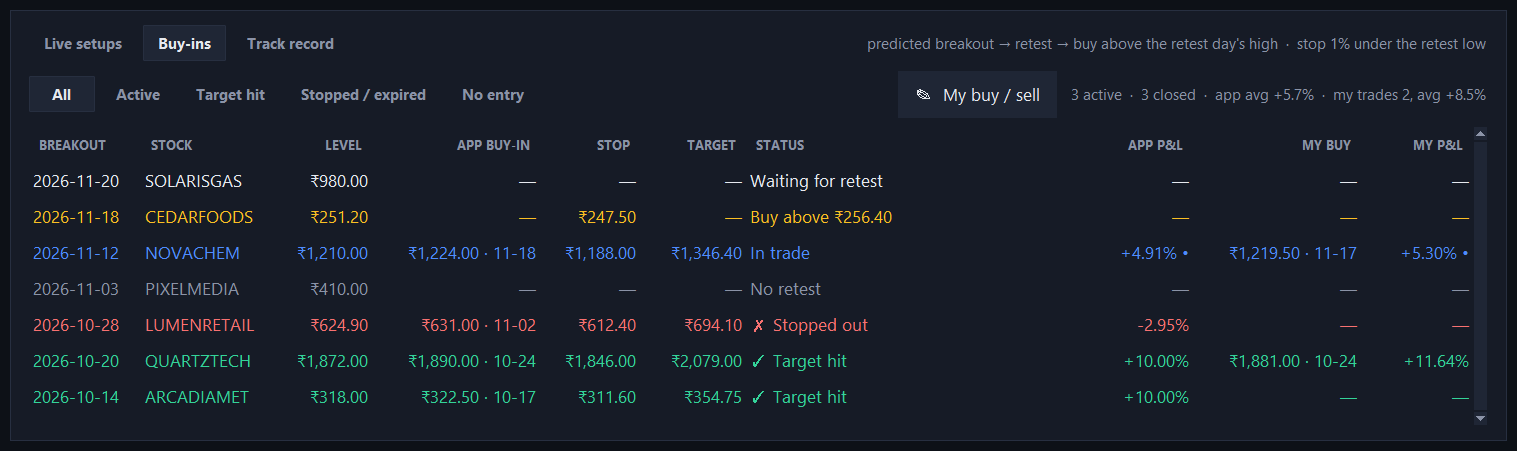
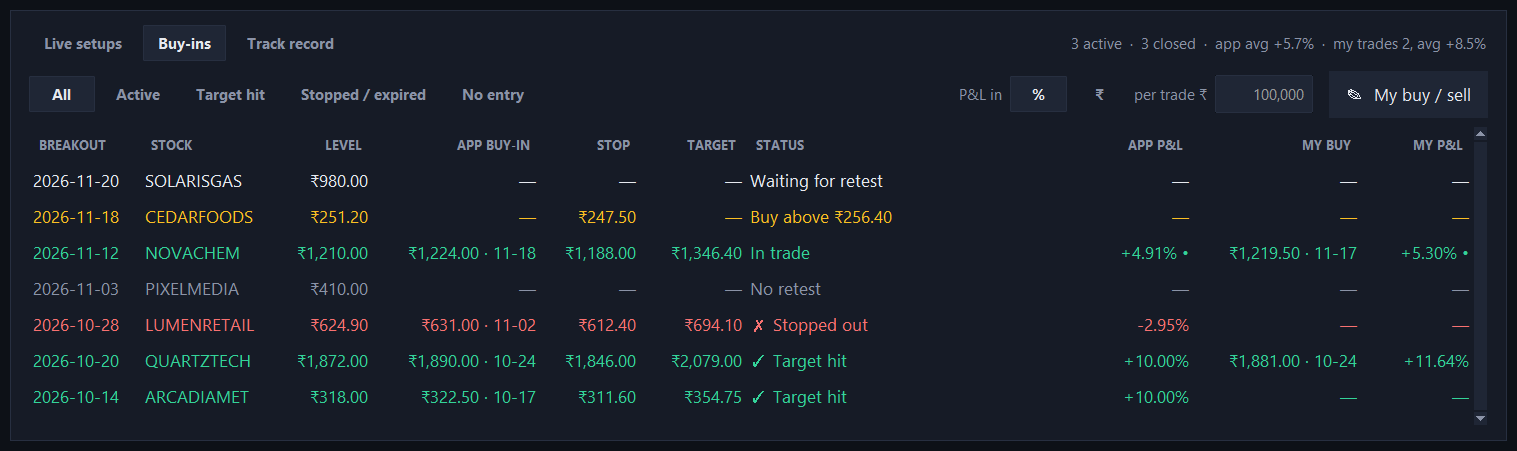
Sort any column, show buy-in P&L in ₹ or %, colour gains and losses
- Click a column heading in Live setups, Buy-ins or Track record to sort
  by it, and click again to reverse. The sort survives refreshes; blanks
  go last.
- Buy-ins: a P&L in % / ₹ toggle and a per-trade amount (₹1,00,000 by
  default, in whole shares). In ₹ mode the summary shows booked and
  open profit.
- Rows with a P&L are green when it's up and red when it's down. Track
  record rows follow the sign of MOVE.
- The hit-rate card also shows how many predictions are still pending.

diff --git a/breakout_predictor_app.py b/breakout_predictor_app.py
@@ -33,6 +33,7 @@ import io
 import json
 import os
 import queue
+import re
 import smtplib
 import ssl
 import threading
@@ -81,6 +82,8 @@ DEFAULT_CONFIG = {
     "max_emails_per_day": 20,
     "wma200_filter": False,
     "target_pct": 10.0,
+    "pnl_mode": "pct",
+    "trade_amount": 100000,
 }
 WEEKLY_CALENDAR_DAYS = 1950   # ~5.3 years: 200 completed weeks before every backtest day
 WMA_WEEKS = 200
@@ -723,6 +726,14 @@ def my_pnl(t, price_now):
     if t.get("my_sell_price"):
         return pct(t["my_buy_price"], t["my_sell_price"]), True
     return (pct(t["my_buy_price"], price_now), False) if price_now else (None, False)
+
+
+def pnl_amount(pct_value, entry, amount):
+    """Rupee P&L of putting `amount` into whole shares at `entry` and moving pct_value %. None if unknown."""
+    if pct_value is None or not entry or not amount:
+        return None
+    qty = int(amount // entry)
+    return qty * entry * pct_value / 100 if qty else None
 
 
 def build_trades(preds, history, existing, target_pct):
@@ -1915,7 +1926,7 @@ class App(tk.Tk):
         tbl = self.tabs["live"]
         self.tree = ttk.Treeview(tbl, columns=[col[0] for col in self.COLUMNS], show="headings", selectmode="browse")
         for key, title, width, anchor in self.COLUMNS:
-            self.tree.heading(key, text=title, anchor=anchor)
+            self.tree.heading(key, text=title, anchor=anchor, command=lambda k=key: self._sort_click(self.tree, k))
             self.tree.column(key, width=int(width * self.k), anchor=anchor, stretch=key in ("why", "industry"))
         self.tree.tag_configure("alt", background=P["row_alt"])
         self.tree.tag_configure("new", background=P["new_row"])
@@ -1973,11 +1984,14 @@ class App(tk.Tk):
         box.pack(fill="both", expand=True)
         self.track = ttk.Treeview(box, columns=[col[0] for col in self.TRACK_COLUMNS], show="headings", selectmode="browse")
         for key, title, width, anchor in self.TRACK_COLUMNS:
-            self.track.heading(key, text=title, anchor=anchor)
+            self.track.heading(key, text=title, anchor=anchor,
+                               command=lambda k=key: self._sort_click(self.track, k))
             self.track.column(key, width=int(width * self.k), anchor=anchor, stretch=key == "symbol")
         self.track.tag_configure("hit", foreground=P["green"])
         self.track.tag_configure("miss", foreground=P["red"])
         self.track.tag_configure("open", foreground=P["muted"])
+        self.track.tag_configure("pos", foreground=P["green"])
+        self.track.tag_configure("neg", foreground=P["red"])
         sb = ttk.Scrollbar(box, orient="vertical", command=self.track.yview)
         self.track.configure(yscrollcommand=sb.set)
         self.track.pack(side="left", fill="both", expand=True)
@@ -2004,22 +2018,40 @@ class App(tk.Tk):
             self.buyin_btns[name] = ttk.Button(bar, text=text, style="Seg.TButton", width=-4,
                                                command=lambda n=name: self._set_buyin_filter(n))
             self.buyin_btns[name].pack(side="left", padx=(0, 6))
-        self.buyin_summary = ttk.Label(bar, style="Hint.TLabel")
-        self.buyin_summary.pack(side="right")
+        # The summary sits in the tab header row (where the other tabs show their hint) to leave room here.
+        self.buyin_summary = ttk.Label(self.tab_hint.master, style="Hint.TLabel")
         ttk.Button(bar, text="✎  My buy / sell", style="Ghost.TButton",
-                   command=self.open_my_trade_dialog).pack(side="right", padx=(0, 12))
+                   command=self.open_my_trade_dialog).pack(side="right")
+        self.pnl_mode = self.cfg.get("pnl_mode", "pct")
+        self.amount_var = tk.StringVar(value=f"{float(self.cfg.get('trade_amount') or 100000):,.0f}")
+        self.amount_entry = ttk.Entry(bar, textvariable=self.amount_var, width=10, justify="right")
+        self.amount_entry.pack(side="right", padx=(0, 16))
+        self.amount_entry.bind("<Return>", lambda e: self._set_trade_amount())
+        self.amount_entry.bind("<FocusOut>", lambda e: self._set_trade_amount())
+        self.amount_label = ttk.Label(bar, text="per trade ₹", style="Hint.TLabel")
+        self.amount_label.pack(side="right", padx=(0, 6))
+        self.pnl_btns = {}
+        for name, text in [("amt", "₹"), ("pct", "%")]:
+            self.pnl_btns[name] = ttk.Button(bar, text=text, style="Seg.TButton", width=3,
+                                             command=lambda n=name: self._set_pnl_mode(n))
+            self.pnl_btns[name].pack(side="right", padx=(0, 4))
+        ttk.Label(bar, text="P&L in", style="Hint.TLabel").pack(side="right", padx=(0, 6))
         box = ttk.Frame(parent, style="Card.TFrame")
         box.pack(fill="both", expand=True)
         self.buyins = ttk.Treeview(box, columns=[col[0] for col in self.BUYIN_COLUMNS], show="headings",
                                    selectmode="browse")
         for key, title, width, anchor in self.BUYIN_COLUMNS:
-            self.buyins.heading(key, text=title, anchor=anchor)
+            self.buyins.heading(key, text=title, anchor=anchor,
+                                command=lambda k=key: self._sort_click(self.buyins, k))
             self.buyins.column(key, width=int(width * self.k), anchor=anchor, stretch=key == "status")
         for tag, color in [("win", P["green"]), ("loss", P["red"]), ("expired", P["amber"]), ("entered", P["accent"]),
                            ("retesting", P["amber"]), ("waiting_retest", P["text"])]:
             self.buyins.tag_configure(tag, foreground=color)
         for tag in ("failed", "no_retest", "no_entry"):
             self.buyins.tag_configure(tag, foreground=P["muted"])
+        # Rows with a P&L are coloured by its sign instead (Tk can't colour single cells).
+        self.buyins.tag_configure("pos", foreground=P["green"])
+        self.buyins.tag_configure("neg", foreground=P["red"])
         sb = ttk.Scrollbar(box, orient="vertical", command=self.buyins.yview)
         self.buyins.configure(yscrollcommand=sb.set)
         self.buyins.pack(side="left", fill="both", expand=True)
@@ -2030,6 +2062,83 @@ class App(tk.Tk):
                                          "then moves to Retesting\nand In trade once it bounces above the "
                                          "retest day's high.")
         self._set_buyin_filter("all")
+
+    def _set_pnl_mode(self, mode):
+        self.pnl_mode = self.cfg["pnl_mode"] = mode
+        save_config(self.cfg)
+        self._refresh_buyins()
+
+    def _set_trade_amount(self):
+        try:
+            amount = float(self.amount_var.get().replace(",", "").replace("₹", "").strip())
+            if amount <= 0:
+                raise ValueError
+        except ValueError:
+            amount = float(self.cfg.get("trade_amount") or 100000)
+        self.amount_var.set(f"{amount:,.0f}")
+        if amount != self.cfg.get("trade_amount"):
+            self.cfg["trade_amount"] = amount
+            save_config(self.cfg)
+            self._refresh_buyins()
+
+    # ------------------------------------------------------------------ column sorting
+    TEXT_COLUMNS = {"symbol", "industry", "why", "status"}  # first click sorts these A→Z, the rest high→low
+
+    def _columns_of(self, tree):
+        for name, cols in (("tree", self.COLUMNS), ("buyins", self.BUYIN_COLUMNS), ("track", self.TRACK_COLUMNS)):
+            if getattr(self, name, None) is tree:
+                return cols
+        return []
+
+    def _sort_click(self, tree, col):
+        if not hasattr(self, "sort_state"):
+            self.sort_state = {}
+        cur = self.sort_state.get(str(tree))
+        desc = (not cur[1]) if cur and cur[0] == col else col not in self.TEXT_COLUMNS
+        self.sort_state[str(tree)] = (col, desc)
+        self._apply_sort(tree)
+
+    @staticmethod
+    def _sort_value(text):
+        """Sort key from a cell's display text: dates, then numbers (₹, %, commas, • ignored), then text."""
+        s = str(text).strip()
+        if s in ("", "—", "-"):
+            return None
+        if s == "new":  # live 'PREDICTED' column: predicted this scan
+            return (0, float("inf"))
+        for fmt in ("%Y-%m-%d %H:%M", "%Y-%m-%d"):
+            try:
+                return (0, datetime.strptime(s, fmt).timestamp())
+            except ValueError:
+                pass
+        try:
+            d = datetime.strptime(f"{now_ist().year} {s}", "%Y %b %d")
+            return (0, d.timestamp())
+        except ValueError:
+            pass
+        m = re.match(r"^([+\-−]?)₹?([\d,]+(?:\.\d+)?)", s)
+        if m:
+            value = float(m.group(2).replace(",", ""))
+            return (0, -value if m.group(1) in ("-", "−") else value)
+        return (1, s.lower())
+
+    def _apply_sort(self, tree):
+        state = getattr(self, "sort_state", {}).get(str(tree))
+        for key, title, _, _ in self._columns_of(tree):
+            arrow = ("  ▼" if state[1] else "  ▲") if state and state[0] == key else ""
+            tree.heading(key, text=title + arrow)
+        if not state:
+            return
+        col, desc = state
+        keyed = [(self._sort_value(tree.set(iid, col)), iid) for iid in tree.get_children("")]
+        present = sorted([k for k in keyed if k[0] is not None], key=lambda k: k[0], reverse=desc)
+        missing = [k for k in keyed if k[0] is None]  # blanks always go last
+        for i, (_, iid) in enumerate(present + missing):
+            tree.move(iid, "", i)
+        if tree is self.tree:  # re-stripe the live table, keeping 'new' highlights
+            for i, iid in enumerate(tree.get_children("")):
+                if "new" not in tree.item(iid, "tags"):
+                    tree.item(iid, tags=("alt",) if i % 2 else ())
 
     def _set_buyin_filter(self, name):
         self.buyin_filter = name
@@ -2043,21 +2152,51 @@ class App(tk.Tk):
     def _refresh_buyins(self):
         trades = load_trades()
         ts = trade_summary(trades)
+        amount = float(self.cfg.get("trade_amount") or 100000)
+        in_rupees = self.pnl_mode == "amt"
+        for n, b in self.pnl_btns.items():
+            b.configure(style="SegOn.TButton" if n == self.pnl_mode else "Seg.TButton")
+        self.amount_entry.configure(state="normal" if in_rupees else "disabled")
         active = sum(1 for t in trades if t.get("status") in self.BUYIN_FILTERS["active"])
-        mine = [p for p in (my_pnl(t, self._price_now(t))[0] for t in trades) if p is not None]
-        self.buyin_summary.configure(
-            text=f"{active} active  ·  {ts['closed']} closed"
-                 + (f"  ·  app avg {ts['avg']:+.1f}%" if ts["closed"] else "")
-                 + (f"  ·  my trades {len(mine)}, avg {sum(mine) / len(mine):+.1f}%" if mine else ""))
+        rupees = lambda v: ("+" if v >= 0 else "−") + f"₹{abs(v):,.0f}"  # noqa: E731
+        if in_rupees:
+            booked = opened = mine_total = 0.0
+            n_mine = 0
+            for t in trades:
+                val, realised = app_pnl(t, self._price_now(t))
+                amt = pnl_amount(val, t.get("entry_price"), amount)
+                if amt is not None:
+                    if realised:
+                        booked += amt
+                    else:
+                        opened += amt
+                mine_amt = pnl_amount(my_pnl(t, self._price_now(t))[0], t.get("my_buy_price"), amount)
+                if mine_amt is not None:
+                    mine_total += mine_amt
+                    n_mine += 1
+            summary = (f"{active} active  ·  {ts['closed']} closed  ·  app "
+                       + (f"{rupees(booked)} booked" if ts["closed"] else "nothing booked yet")
+                       + f", {rupees(opened)} open" + (f"  ·  mine {rupees(mine_total)}" if n_mine else ""))
+        else:
+            mine = [p for p in (my_pnl(t, self._price_now(t))[0] for t in trades) if p is not None]
+            summary = (f"{active} active  ·  {ts['closed']} closed"
+                       + (f"  ·  app avg {ts['avg']:+.1f}%" if ts["closed"] else "")
+                       + (f"  ·  my trades {len(mine)}, avg {sum(mine) / len(mine):+.1f}%" if mine else ""))
+        self.buyin_summary.configure(text=summary)
         self.buyins.delete(*self.buyins.get_children())
         allowed = self.BUYIN_FILTERS[self.buyin_filter]
         shown = [t for t in trades if allowed is None or t.get("status") in allowed]
         shown.sort(key=lambda t: t.get("breakout_date", ""), reverse=True)
         money = lambda v: f"₹{v:,.2f}" if v else "—"  # noqa: E731
 
-        def pnl_text(p):
+        def pnl_text(p, entry):
             val, realised = p
-            return "—" if val is None else f"{val:+.2f}%" + ("" if realised else " •")
+            if in_rupees:
+                val = pnl_amount(val, entry, amount)
+                text = None if val is None else rupees(val)
+            else:
+                text = None if val is None else f"{val:+.2f}%"
+            return "—" if text is None else text + ("" if realised else " •")
 
         for t in shown:
             st = t.get("status")
@@ -2072,10 +2211,14 @@ class App(tk.Tk):
             if t.get("my_buy_price"):
                 my_buy = f"{money(t['my_buy_price'])} · {str(t.get('my_buy_time', ''))[5:10]}"
             price_now = self._price_now(t)
-            self.buyins.insert("", "end", iid=t["id"], tags=(st,), values=(
+            app_val = app_pnl(t, price_now)[0]
+            sign = app_val if app_val is not None else my_pnl(t, price_now)[0]
+            tag = st if sign is None or sign == 0 else ("pos" if sign > 0 else "neg")
+            self.buyins.insert("", "end", iid=t["id"], tags=(tag,), values=(
                 t.get("breakout_date", "—"), t["symbol"], money(t.get("R")), entry, money(t.get("stop")),
-                money(t.get("target")), label, pnl_text(app_pnl(t, price_now)), my_buy,
-                pnl_text(my_pnl(t, price_now))))
+                money(t.get("target")), label, pnl_text(app_pnl(t, price_now), t.get("entry_price")), my_buy,
+                pnl_text(my_pnl(t, price_now), t.get("my_buy_price"))))
+        self._apply_sort(self.buyins)
         if shown:
             self.buyin_empty.place_forget()
         else:
@@ -2179,6 +2322,12 @@ class App(tk.Tk):
             frame.pack_forget()
             self.tab_btns[n].configure(style="SegOn.TButton" if n == name else "Seg.TButton")
         self.tabs[name].pack(fill="both", expand=True)
+        if name == "buyins":
+            self.tab_hint.pack_forget()
+            self.buyin_summary.pack(side="right")
+        else:
+            self.buyin_summary.pack_forget()
+            self.tab_hint.pack(side="right")
         self.tab_hint.configure(text={
             "live": "highlighted rows are new  ·  sorted by score",
             "buyins": "predicted breakout → retest → buy above the retest day's high  ·  stop 1% under "
@@ -2206,14 +2355,17 @@ class App(tk.Tk):
         shown.sort(key=lambda p: (p["date"], p.get("time", "")), reverse=True)
         label = {"hit": "✓ Hit", "miss": "✗ Missed", "open": "• Open"}
         for p in shown:
-            move = "—"
+            move, tag = "—", p["status"]
             if p.get("resolved_close") and p.get("price"):
-                move = f"{(p['resolved_close'] - p['price']) / p['price'] * 100:+.2f}%"
-            self.track.insert("", "end", tags=(p["status"],), values=(
+                change = (p["resolved_close"] - p["price"]) / p["price"] * 100
+                move = f"{change:+.2f}%"
+                tag = "pos" if change > 0 else "neg" if change < 0 else tag  # colour by the move's sign
+            self.track.insert("", "end", tags=(tag,), values=(
                 f"{p['date']} {p.get('time', '')}".strip(), p["symbol"], f"{p.get('score', 0):.0f}",
                 f"₹{p['price']:,.2f}" if p.get("price") else "—", f"₹{p['R']:,.2f}",
                 label.get(p["status"], p["status"]), p.get("resolved", "—"),
                 str(p["sessions"]) if p.get("sessions") else "—", move))
+        self._apply_sort(self.track)
         if shown:
             self.track_empty.place_forget()
         else:
@@ -2264,7 +2416,8 @@ class App(tk.Tk):
             self._refresh_buyins()
         self.stat["hit"][0].configure(text=f"{hit / (hit + miss) * 100:.0f}%" if hit + miss else "—",
                                       foreground=P["text"])
-        self.stat["hit"][1].configure(text=f"{hit} hit  ·  {miss} missed" if hit + miss else "graded after 7 sessions")
+        self.stat["hit"][1].configure(text=(f"{hit} hit  ·  {miss} missed  ·  {opened} pending" if hit + miss
+                                            else f"graded after {HORIZON} sessions"))
         if hasattr(self, "track"):
             self._refresh_track()
         bt = read_json(APP_DIR / "backtest.json")
@@ -2336,12 +2489,15 @@ class App(tk.Tk):
         ("h2", "5.  Live setups"),
         ("p", "Each row is a predicted breakout. BREAKOUT LEVEL is the 20-day high to beat, DISTANCE is how far below "
               "it the price is, SCORE is 0–100 and WHY lists what pushed the score up. Highlighted rows are new in "
-              "this scan. When the market is closed it shows a preview for the next session."),
+              "this scan. When the market is closed it shows a preview for the next session. Click any column heading "
+              "to sort by it (click again to reverse); this works in all three tables."),
         ("img", "live.png"),
         ("h2", "6.  Buy-ins"),
         ("p", "Predicted stocks that broke out move here: Waiting for retest → Retesting (Buy above ₹X) → In trade → "
               "Target hit, Stopped out or Expired. APP BUY-IN, STOP and TARGET are the app's plan. Use the filters "
-              "to see active trades, winners, or stocks that never gave an entry."),
+              "to see active trades, winners, or stocks that never gave an entry. P&L in % / ₹ switches the P&L columns "
+              "between percent and rupees; ₹ assumes you put the 'per trade' amount (₹1,00,000 by default) into whole "
+              "shares at each buy price. Rows with a P&L are green when it's up and red when it's down."),
         ("img", "buyins.png"),
         ("h2", "7.  Record your own trade"),
         ("p", "Select a row and click ✎ My buy / sell (or double-click it). Enter the price, date and time you "
@@ -2804,6 +2960,7 @@ class App(tk.Tk):
                 f"{r['score']:.0f}   {bar}", "  ·  ".join(r["reasons"]),
                 open_since.get(r["symbol"], "new")))
         self.row_count = len(rows)
+        self._apply_sort(self.tree)
         if rows:
             self.empty_label.place_forget()
         else:

diff --git a/README.md b/README.md
@@ -61,6 +61,7 @@ Each row is a predicted breakout:
 - **WHY**: what pushed the score up.
 
 Highlighted rows are new in this scan. When the market is closed, the tab previews the next session.
+Click any column heading to sort by it, and click again to reverse. This works in all three tables.
 
 ![Live setups](docs/images/live.png)
 
@@ -69,6 +70,11 @@ Highlighted rows are new in this scan. When the market is closed, the tab previe
 Predicted stocks that break out move here and are followed through each stage: **Waiting for retest → Buy above ₹X →
 In trade → Target hit / Stopped out / Expired**. **APP BUY-IN**, **STOP** and **TARGET** are the app's plan. The
 filters show active trades, winners, losers or stocks that never gave an entry.
+
+**P&L in % / ₹** switches the P&L columns between percent and rupees. Rupees assume you put the **per trade**
+amount (₹1,00,000 by default) into whole shares at each buy price. The summary above the table then shows the
+app's booked and open profit in rupees. A • marks a position that's still open. Rows with a P&L turn green when it's up and red
+when it's down; in Track record the same goes for the MOVE.
 
 ![Buy-ins](docs/images/buyins.png)
 
